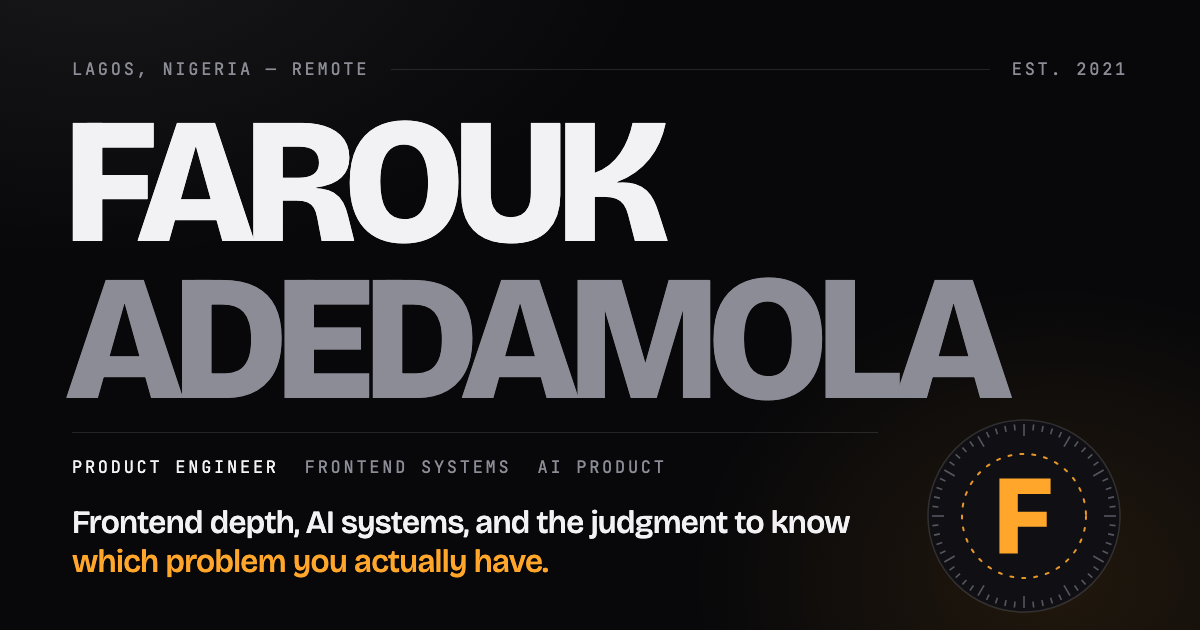
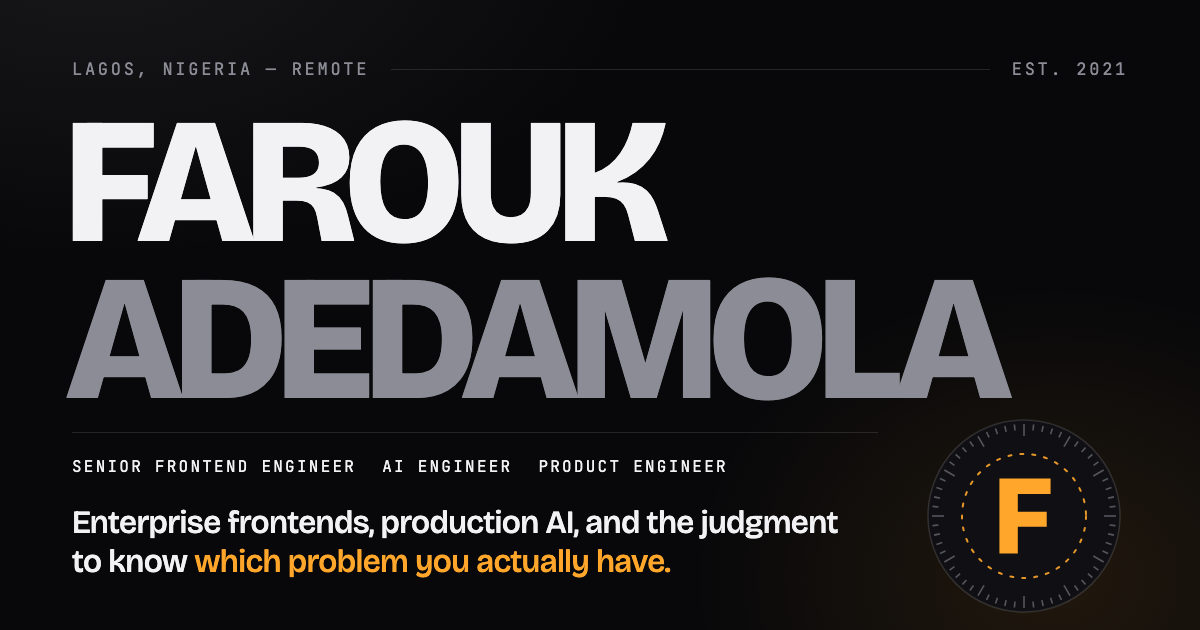
updates

Changed region(s): [[0.0617, 0.8143, 0.7092, 0.9349], [0.0617, 0.7238, 0.6167, 0.754]]

diff --git a/src/components/site/Hero.tsx b/src/components/site/Hero.tsx
@@ -3,9 +3,9 @@
 import { useEffect, useRef } from 'react';
 
 import ActionButton from './ActionButton';
-import { createSpring, prefersReducedMotion } from '@/lib/spring';
-import { INTRO, INTRO_TOTAL } from '@/lib/intro';
 import { profile, proof } from '@/data/resume';
+import { INTRO, INTRO_TOTAL } from '@/lib/intro';
+import { createSpring, prefersReducedMotion } from '@/lib/spring';
 
 /**
  * The name opens on the two axes Bricolage Grotesque actually has — width
@@ -32,8 +32,7 @@ export default function Hero({ plane }: { plane?: React.ReactNode }) {
 
     // If the pixel intro is running, hold until it starts lifting — otherwise
     // the name finishes widening behind an opaque overlay and nobody sees it.
-    const introRunning =
-      document.documentElement.dataset.intro === 'run';
+    const introRunning = document.documentElement.dataset.intro === 'run';
     const delay = introRunning
       ? Math.max(0, INTRO_TOTAL - INTRO.exitDuration - performance.now())
       : 0;
@@ -55,58 +54,58 @@ export default function Hero({ plane }: { plane?: React.ReactNode }) {
   return (
     <div className="hero">
       <div className="wrap hero-body">
-      <div className="hero-lead">
-      <div className="eyebrow">
-        <span className="m">{profile.locationLine}</span>
-        <span className="rule" />
-        <span className="m">{profile.since}</span>
-      </div>
-
-      <h1 className="display" ref={nameRef}>
-        <span className="ln">{profile.first}</span>
-        <span className="ln">{profile.last}</span>
-      </h1>
-
-      <div className="hero-rule" />
-
-      <div className="role">
-        <b>{profile.title}</b>
-        {profile.disciplines.map((d) => (
-          <i key={d}>{d}</i>
-        ))}
-      </div>
-
-      <p className="lede">
-        {profile.lede.before}
-        <em>{profile.lede.accent}</em>
-      </p>
-      </div>
-
-      {plane}
-
-      <dl className="proof">
-        {proof.map((p) => (
-          <div key={p.label}>
-            <dt>{p.label}</dt>
-            <dd>{p.body}</dd>
+        <div className="hero-lead">
+          <div className="eyebrow">
+            <span className="m">{profile.locationLine}</span>
+            <span className="rule" />
+            <span className="m">{profile.since}</span>
           </div>
-        ))}
-      </dl>
 
-      <div className="cta">
-        <ActionButton href={`mailto:${profile.email}`} variant="primary">
-          Start a conversation
-        </ActionButton>
-        <ActionButton href={profile.resumePath} external>
-          Résumé
-        </ActionButton>
-        <ActionButton href={profile.github} external>
-          GitHub
-        </ActionButton>
-        <ActionButton href={profile.linkedin} external>
-          LinkedIn
-        </ActionButton>
-      </div>
+          <h1 className="display" ref={nameRef}>
+            <span className="ln">{profile.first}</span>
+            <span className="ln">{profile.last}</span>
+          </h1>
+
+          <div className="hero-rule" />
+
+          <div className="role">
+            {profile.titles.map((t) => (
+              <b key={t}>{t}</b>
+            ))}
+            <i>{profile.experience}</i>
+          </div>
+
+          <p className="lede">
+            {profile.lede.before}
+            <em>{profile.lede.accent}</em>
+          </p>
+        </div>
+
+        {plane}
+
+        <dl className="proof">
+          {proof.map((p) => (
+            <div key={p.label}>
+              <dt>{p.label}</dt>
+              <dd>{p.body}</dd>
+            </div>
+          ))}
+        </dl>
+
+        <div className="cta">
+          <ActionButton href={`mailto:${profile.email}`} variant="primary">
+            Start a conversation
+          </ActionButton>
+          <ActionButton href={profile.resumePath} external>
+            Résumé
+          </ActionButton>
+          <ActionButton href={profile.github} external>
+            GitHub
+          </ActionButton>
+          <ActionButton href={profile.linkedin} external>
+            LinkedIn
+          </ActionButton>
+        </div>
       </div>
     </div>
   );

diff --git a/src/data/resume.ts b/src/data/resume.ts
@@ -7,10 +7,13 @@ export const profile = {
   name: 'Farouk Adedamola',
   first: 'Farouk',
   last: 'Adedamola',
-  title: 'Product Engineer',
-  disciplines: ['Frontend systems', 'AI product', '5 years'],
+  /* The three hats, in the order the hero claims them. */
+  titles: ['Senior Frontend Engineer', 'AI Engineer', 'Product Engineer'],
+  title: 'Senior Frontend, AI & Product Engineer',
+  experience: '5 years',
   lede: {
-    before: 'Frontend depth, AI systems, and the judgment to know ',
+    before:
+      'Enterprise frontends, production AI, and products owned end to end — with the judgment to know ',
     accent: 'which problem you actually have.',
   },
   location: 'Lagos, Nigeria',
@@ -31,16 +34,16 @@ export type Proof = { label: string; body: string };
 
 export const proof: Proof[] = [
   {
-    label: 'Enterprise',
-    body: 'Multi-tenant ERP for 11 PLC, Ardova and Nigerian Breweries',
+    label: 'Frontend at scale',
+    body: 'Led frontend for a multi-tenant ERP serving 11 PLC, Ardova and Nigerian Breweries — performance up 40%',
   },
   {
     label: 'AI in production',
-    body: 'RAG call-handling for NKIRU — −30% support load',
+    body: 'RAG call handling live for NKIRU — support-agent workload down 30%',
   },
   {
-    label: 'Shipped & scaled',
-    body: '5,000+ verified users on WAKASUB, ₦10M+ per quarter',
+    label: 'Product shipped',
+    body: 'Rebuilt WAKASUB’s platform and payment engines — 5,000+ verified users, ₦10M+ per quarter',
   },
 ];
 
@@ -249,7 +252,14 @@ export const stackLayers: StackLayer[] = [
   {
     id: 'frontend',
     label: 'Frontend',
-    items: ['React', 'Next.js', 'TypeScript', 'React Native', 'Gatsby', 'Tailwind'],
+    items: [
+      'React',
+      'Next.js',
+      'TypeScript',
+      'React Native',
+      'Gatsby',
+      'Tailwind',
+    ],
     proof: 'Multi-tenant ERP · 11 PLC, Ardova',
   },
   {

diff --git a/src/config/seo.ts b/src/config/seo.ts
@@ -1,17 +1,18 @@
 export const siteConfig = {
   name: 'Farouk Adedamola',
-  title: 'Farouk Adedamola — Product Engineer',
+  title: 'Farouk Adedamola — Senior Frontend, AI & Product Engineer',
   description:
-    'Product engineer in Lagos, Nigeria. Five years of frontend depth across multi-tenant ERP for 11 PLC and Ardova, RAG and LLM systems in production, and WAKASUB — a payments platform serving 5,000+ users.',
+    'Senior frontend, AI and product engineer in Lagos, Nigeria. Enterprise frontends for 11 PLC and Ardova, RAG systems in production, and WAKASUB — a payments platform serving 5,000+ users.',
   url: process.env.SITE_URL || 'https://farouk.dev',
   ogImage: '/og-image.png',
   ogImageAlt:
-    'Farouk Adedamola — Product Engineer. Frontend depth, AI systems, and the judgment to know which problem you actually have.',
+    'Farouk Adedamola — Senior Frontend Engineer, AI Engineer and Product Engineer. Enterprise frontends, production AI, and the judgment to know which problem you actually have.',
   keywords: [
     'Farouk Adedamola',
     'Product Engineer',
     'Senior Frontend Engineer',
     'AI Product Engineer',
+    'AI Engineer',
     'Frontend Engineer Lagos',
     'React Engineer',
     'Next.js Engineer',
@@ -50,7 +51,7 @@ export const jsonLd = {
   url: siteConfig.url,
   image: ogImageUrl,
   email: siteConfig.author.email,
-  jobTitle: 'Product Engineer',
+  jobTitle: ['Senior Frontend Engineer', 'AI Engineer', 'Product Engineer'],
   address: {
     '@type': 'PostalAddress',
     addressLocality: 'Lagos',

diff --git a/src/styles/globals.css b/src/styles/globals.css
@@ -536,18 +536,37 @@ a {
   color: var(--paper);
   font-weight: 500;
 }
+/* A dot after every title but the last, so three titles never run together. */
+.role b:not(:last-of-type)::after {
+  content: '·';
+  margin-left: 18px;
+  color: var(--mute-dim);
+  font-weight: 400;
+}
 .role i {
   color: var(--mute-dim);
   font-style: normal;
 }
+/* Three titles read cleanest one per line on a phone, with no dangling dots. */
+@media (max-width: 560px) {
+  .role {
+    flex-direction: column;
+    align-items: flex-start;
+    gap: 7px;
+  }
+  .role b:not(:last-of-type)::after {
+    content: none;
+  }
+}
 .lede {
   margin: 0;
   padding-top: 6px;
-  max-width: 34rem;
+  max-width: 35rem;
   font-size: clamp(1.25rem, 2.4vw, 1.65rem);
   line-height: 1.34;
   letter-spacing: -0.018em;
   font-variation-settings: 'wdth' 100, 'wght' 500;
+  text-wrap: balance; /* even lines, so a single word never dangles on its own */
 }
 .lede em {
   font-style: normal;
